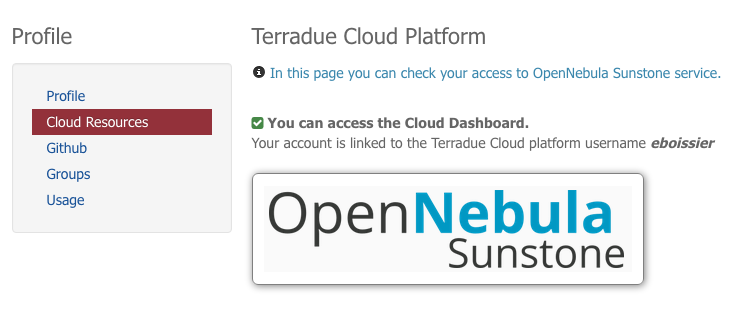
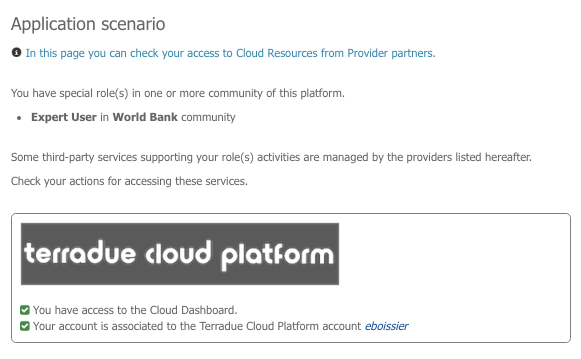
updates ARcloseout

Changed region(s): [[0.0, 0.031, 0.9914, 0.9598]]

diff --git a/source/conf.py b/source/conf.py
@@ -48,9 +48,9 @@ copyright = u'2016, TEP Urban consortium'
 # built documents.
 #
 # The short X.Y version.
-version = '1.1'
+version = '1.4'
 # The full version, including alpha/beta/rc tags.
-release = '1.1'
+release = '1.4'
 
 # The language for content autogenerated by Sphinx. Refer to documentation
 # for a list of supported languages.

diff --git a/source/community-guide/platform/geobrowser.rst b/source/community-guide/platform/geobrowser.rst
@@ -70,6 +70,31 @@ Display the results (orange polygons) of the current search or context.
 .. figure:: ../../includes/geobrowser_results_layer.png
 	:figclass: img-border
 
+Area of interest
+*****************
+
+.. figure:: ../../includes/aoi.png
+	:align: center
+	:figclass: img-container-border
+	:scale: 80%
+
+
+Area of interest may be defined by the user using the tools to draw a polygon or a rectangle on the map (see `Map`_). Once set, the search will be automatically updated with data corresponding to this AOI.
+
+Area of interest external definition
+````````````````````````````````````
+
+Complex Area of interest can be defined by uploading or referencing a vector based file:
+
+- shapefile (limited to 1MB)
+- kml (limited to 1MB)
+
+Area of Interest according to processing service
+````````````````````````````````````````````````
+
+Area of Interest may be directly used to fill bounding box parameters exposed by Processing services.
+For that, you can use the |get_param_from_map_button.png| button, displayed along the parameter input field. Clicking on it will allow directly to fill the input with the value of the current search bounding box.
+
 Contexts
 ~~~~~~~~
 
@@ -144,12 +169,16 @@ Details on jobs can be accessed by clicking on the title of the job.
 .. |geobrowser_button_query.png| image:: ../../includes/geobrowser_button_query.png
 .. |geobrowser_button_plus.png| image:: ../../includes/geobrowser_button_plus.png
 .. |geobrowser_button_minus.png| image:: ../../includes/geobrowser_button_minus.png
+.. |geobrowser_button_search_area.png| image:: ../../includes/geobrowser_button_search_area.png
 .. |geobrowser_button_search.png| image:: ../../includes/geobrowser_button_search.png
 .. |geobrowser_button_polygon.png| image:: ../../includes/geobrowser_button_polygon.png
 .. |geobrowser_button_recbox.png| image:: ../../includes/geobrowser_button_recbox.png
-.. |geobrowser_button_dynamicsearch.png| image:: ../../includes/geobrowser_button_dynamicsearch.png
+.. |geobrowser_button_placemark.png| image:: ../../includes/geobrowser_button_placemark.png
+.. |geobrowser_button_meter.png| image:: ../../includes/geobrowser_button_meter.png
+.. |geobrowser_button_wkt.png| image:: ../../includes/geobrowser_button_wkt.png
 .. |geobrowser_button_fullscreen.png| image:: ../../includes/geobrowser_button_fullscreen.png
 .. |geobrowser_button_layers.png| image:: ../../includes/geobrowser_button_layers.png
 .. |geobrowser_disaster_big_group.png| image:: ../../includes/geobrowser_disaster_big_group.png
 .. |geobrowser_disaster_small_group.png| image:: ../../includes/geobrowser_disaster_small_group.png
 .. |geobrowser_disaster_event.png| image:: ../../includes/geobrowser_disaster_event.png
+.. |get_param_from_map_button.png| image:: ../../includes/get_param_from_map_button.png

diff --git a/source/community-guide/user.rst b/source/community-guide/user.rst
@@ -93,13 +93,22 @@ To change your EO-SSO password:
 4. Click on **Submit**.
 5. Your password is updated.
 
-Link your account to the Terradue Cloud Platform
-------------------------------------------------
+Application scenario (for expert users only)
+--------------------------------------------
 
-To access the Cloud resources, you need to have an account on the Terradue Cloud Platform. From this page, you can check that you have a valid account, or create a new one.
+If you are not an Early adopter, you will be invited to join an Early adopter program first.
+
+.. figure:: ../includes/user_profile_cloud_no_role.png
+	:figclass: img-border img-max-width
+	:scale: 80%
+
+Link your account to the Terradue Cloud Platform
+~~~~~~~~~~~~~~~~~~~~~~~~~~~~~~~~~~~~~~~~~~~~~~~~
+
+As an Early adopter, to access the Cloud resources, you need to have an account on the Terradue Cloud Platform. From this page, you can check that you have a valid account, or create a new one.
 
 Don't have a Terradue account ?
-~~~~~~~~~~~~~~~~~~~~~~~~~~~~~~~
+```````````````````````````````
 
 If you don't have yet an account on the Terradue Cloud Platform
 
@@ -119,12 +128,23 @@ If you don't have yet an account on the Terradue Cloud Platform
 	If you want to create an account with a different username or email, you can do it directly at https://www.terradue.com/signup (but a least one of Username or email shall be the same as in EO-SSO).
 
 Already have a Terradue account ?
-~~~~~~~~~~~~~~~~~~~~~~~~~~~~~~~~~
+`````````````````````````````````
 
 If you already have an account on the Terradue Cloud Platform, the portal will be able to detect it by itself and display the Opennebula Sunstone logo. 
 If not the case, it means that you have a different username/email than on your EO-SSO profile. In this case, please contact us so we can manually link your accounts.
 
 .. figure:: ../includes/user_profile_cloud.png
+	:figclass: img-border img-max-width
+	:scale: 80%
+
+Get your Api key
+----------------
+
+You can get a private API key associated to your account.
+Currently this key can be used only to get access to your data packages without being logged in on the portal:
+e.g: https://urban-tep.eo.esa.int/t2api/data/package/search?key=MY_API_KEY
+
+.. figure:: ../includes/user_profile_apikey.png
 	:figclass: img-border img-max-width
 	:scale: 80%
 

diff --git a/source/overview/changelog.rst b/source/overview/changelog.rst
@@ -18,3 +18,5 @@ Change Log
 +---------+------------+--------------------------------------------------------------------------------------------------+
 |         |            | Add accounting                                                                                   |
 +---------+------------+--------------------------------------------------------------------------------------------------+
+| 1.4     | 01/06/2017 | Updates for AR closeout                                                                          |
++---------+------------+--------------------------------------------------------------------------------------------------+
